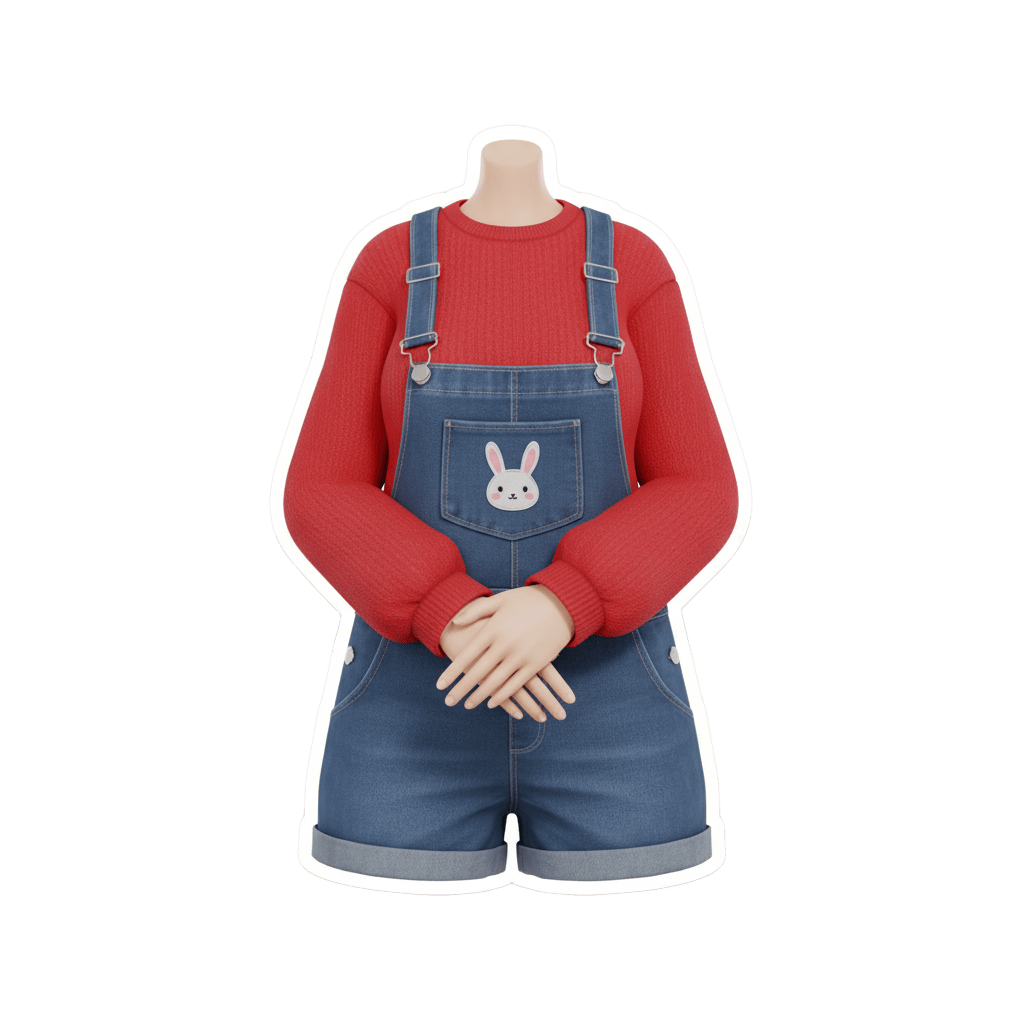
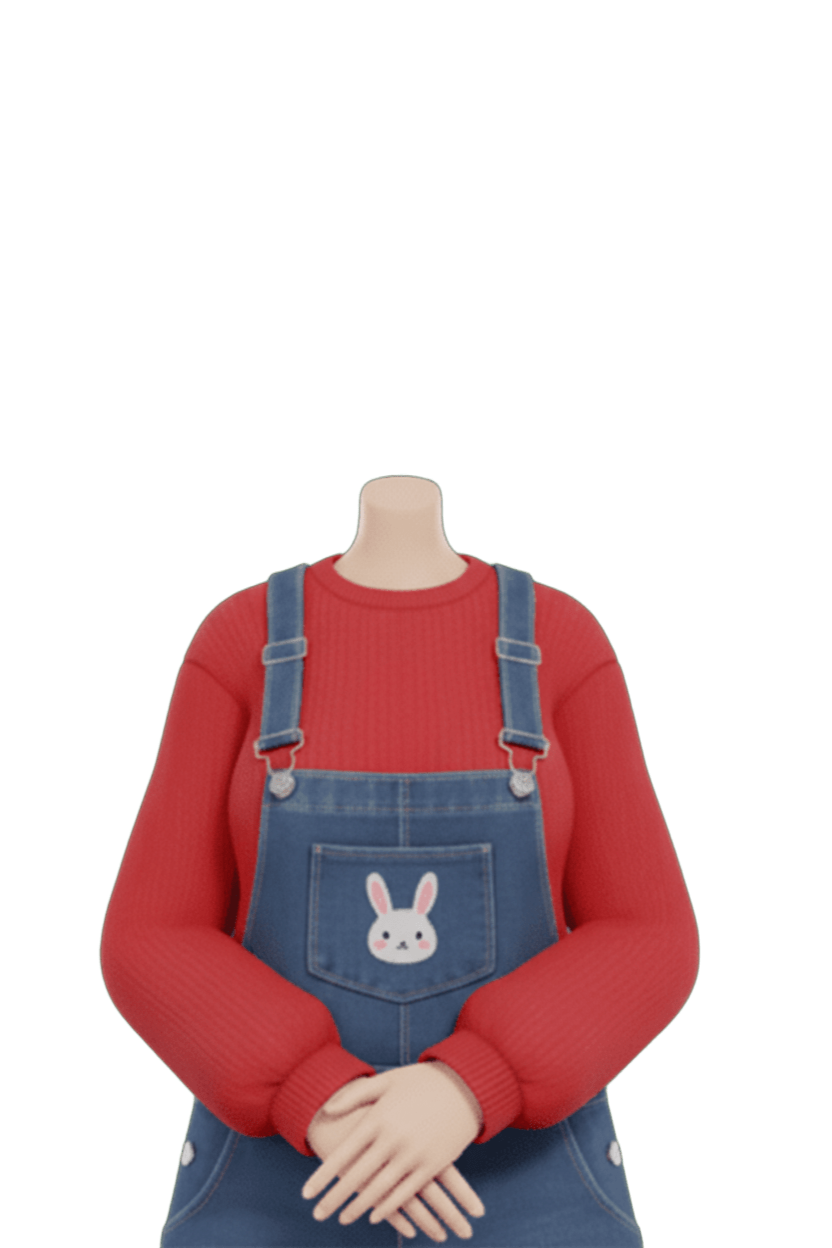
update progress: memperbaiki presisi animasi

diff --git a/tracking.py b/tracking.py
@@ -1,15 +1,11 @@
 import cv2
 import mediapipe as mp
 import numpy as np
-from collections import deque # <-- BARU: Import library deque
+from collections import deque
+import math
 
 # --- FUNGSI UNTUK MENEMPELKAN GAMBAR PNG (DENGAN TRANSPARANSI) ---
-# Fungsi ini sudah bagus, tidak perlu diubah.
 def overlay_png(background, overlay, x, y):
-    """
-    Menempelkan gambar 'overlay' (dengan alpha channel) ke 'background'.
-    x, y adalah koordinat pojok kiri atas dari gambar overlay.
-    """
     bg_h, bg_w, _ = background.shape
     overlay_h, overlay_w, _ = overlay.shape
 
@@ -41,123 +37,214 @@ def overlay_png(background, overlay, x, y):
 
 # --- INISIALISASI MEDIAPIPE ---
 mp_holistic = mp.solutions.holistic
+mp_hands = mp.solutions.hands
 
 # --- MUAT SEMUA GAMBAR KARAKTER DAN SKALAKAN ---
 try:
+    # Aset Kepala (3)
     img_head_normal = cv2.imread('margo_head_normal.png', cv2.IMREAD_UNCHANGED)
+    img_head_blush = cv2.imread('margo_head_blush.png', cv2.IMREAD_UNCHANGED)
+    img_head_excited = cv2.imread('margo_head_excited.png', cv2.IMREAD_UNCHANGED) 
+    
+    # Aset Badan (7)
     img_body_normal = cv2.imread('margo_body_normal.png', cv2.IMREAD_UNCHANGED)
-    img_head_react = cv2.imread('margo_head_react.png', cv2.IMREAD_UNCHANGED)
-    img_body_react = cv2.imread('margo_body_react.png', cv2.IMREAD_UNCHANGED)
+    img_body_coverface = cv2.imread('margo_body_coverface.png', cv2.IMREAD_UNCHANGED)
+    img_body_peace = cv2.imread('margo_body_peace.png', cv2.IMREAD_UNCHANGED)
+    img_body_ok = cv2.imread('margo_body_ok.png', cv2.IMREAD_UNCHANGED)
+    img_body_wave = cv2.imread('margo_body_wave.png', cv2.IMREAD_UNCHANGED)
+    img_body_excited = cv2.imread('margo_body_excited.png', cv2.IMREAD_UNCHANGED)
+    img_body_thumbsup = cv2.imread('margo_body_thumbsup.png', cv2.IMREAD_UNCHANGED)
     
-    if any(img is None for img in [img_head_normal, img_body_normal, img_head_react, img_body_react]):
-        raise FileNotFoundError("Salah satu atau lebih file gambar tidak ditemukan.")
+    image_assets = [
+        img_head_normal, img_head_blush, img_head_excited, img_body_normal, img_body_coverface,
+        img_body_peace, img_body_ok, img_body_wave, img_body_excited, img_body_thumbsup
+    ]
+    if any(img is None for img in image_assets):
+        raise FileNotFoundError("Salah satu atau lebih file gambar tidak ditemukan! Cek kembali semua 10 nama file.")
     
-    # --- PENTING: FAKTOR SKALA ---
-    scale_factor_head = 0.45
-    scale_factor_body = 0.7 
+    scale_factor_head = 0.4
+    scale_factor_body = 0.5 
 
-    img_head_normal = cv2.resize(img_head_normal, (0,0), fx=scale_factor_head, fy=scale_factor_head, interpolation=cv2.INTER_AREA)
-    img_body_normal = cv2.resize(img_body_normal, (0,0), fx=scale_factor_body, fy=scale_factor_body, interpolation=cv2.INTER_AREA)
-    img_head_react = cv2.resize(img_head_react, (0,0), fx=scale_factor_head, fy=scale_factor_head, interpolation=cv2.INTER_AREA)
-    img_body_react = cv2.resize(img_body_react, (0,0), fx=scale_factor_body, fy=scale_factor_body, interpolation=cv2.INTER_AREA)
+    img_head_normal = cv2.resize(img_head_normal, (0,0), fx=scale_factor_head, fy=scale_factor_head)
+    img_head_blush = cv2.resize(img_head_blush, (0,0), fx=scale_factor_head, fy=scale_factor_head)
+    img_head_excited = cv2.resize(img_head_excited, (0,0), fx=scale_factor_head, fy=scale_factor_head)
+    img_body_normal = cv2.resize(img_body_normal, (0,0), fx=scale_factor_body, fy=scale_factor_body)
+    img_body_coverface = cv2.resize(img_body_coverface, (0,0), fx=scale_factor_body, fy=scale_factor_body)
+    img_body_peace = cv2.resize(img_body_peace, (0,0), fx=scale_factor_body, fy=scale_factor_body)
+    img_body_ok = cv2.resize(img_body_ok, (0,0), fx=scale_factor_body, fy=scale_factor_body)
+    img_body_wave = cv2.resize(img_body_wave, (0,0), fx=scale_factor_body, fy=scale_factor_body)
+    img_body_excited = cv2.resize(img_body_excited, (0,0), fx=scale_factor_body, fy=scale_factor_body)
+    img_body_thumbsup = cv2.resize(img_body_thumbsup, (0,0), fx=scale_factor_body, fy=scale_factor_body)
 
 except FileNotFoundError as e:
-    print(e)
-    print("Pastikan semua file gambar ('margo_head_normal.png', 'margo_body_normal.png', dll) ada di folder yang sama dengan script Python.")
+    print(f"Error: {e}")
     exit()
 
-# --- BUKA KAMERA & INISIALISASI MODEL HOLISTIC ---
-cap = cv2.VideoCapture(0)
+### BARU: PENGATURAN POSISI GLOBAL ###
+# Atur jarak kepala dan badan di sini. Ini akan berlaku untuk SEMUA gestur.
+# Format: (penyesuaian_x, penyesuaian_y)
+GLOBAL_OFFSET_HEAD = (0, 140)  # Geser kepala ke atas 20 piksel
+GLOBAL_OFFSET_BODY = (0, -20)  # Geser badan ke bawah 190 piksel
 
-# <-- BARU: BUAT PENYIMPANAN HISTORY UNTUK SMOOTHING -->
-# maxlen=5 berarti kita akan menyimpan & merata-ratakan 5 posisi terakhir
+
+# --- KONFIGURASI UNTUK SETIAP GESTUR ---
+# Sekarang hanya berisi aset gambar untuk setiap gestur.
+GESTURE_CONFIG = {
+    "NORMAL": {
+        "head": img_head_normal,
+        "body": img_body_normal
+        ### DIHAPUS: "offset_head" dan "offset_body"
+    },
+    "BLUSHING": {
+        "head": img_head_blush,
+        "body": img_body_coverface
+    },
+    "EXCITED": {
+        "head": img_head_excited,
+        "body": img_body_excited
+    },
+    "THUMBS_UP": {
+        "head": img_head_normal,
+        "body": img_body_thumbsup
+    },
+    "PEACE": {
+        "head": img_head_normal,
+        "body": img_body_peace
+    },
+    "OK": {
+        "head": img_head_normal,
+        "body": img_body_ok
+    },
+    "WAVE": {
+        "head": img_head_normal,
+        "body": img_body_wave
+    }
+}
+
+# --- FUNGSI BANTUAN DETEKSI GESTURE ---
+def get_finger_status(hand_landmarks):
+    status = {'THUMB': False, 'INDEX': False, 'MIDDLE': False, 'RING': False, 'PINKY': False}
+    if not hand_landmarks:
+        return status
+        
+    thumb_tip = hand_landmarks.landmark[mp_hands.HandLandmark.THUMB_TIP]
+    thumb_ip = hand_landmarks.landmark[mp_hands.HandLandmark.THUMB_IP]
+    if thumb_tip.y < thumb_ip.y:
+        status['THUMB'] = True
+
+    finger_tips_ids = [mp_hands.HandLandmark.INDEX_FINGER_TIP, mp_hands.HandLandmark.MIDDLE_FINGER_TIP, 
+                       mp_hands.HandLandmark.RING_FINGER_TIP, mp_hands.HandLandmark.PINKY_TIP]
+    finger_pips_ids = [mp_hands.HandLandmark.INDEX_FINGER_PIP, mp_hands.HandLandmark.MIDDLE_FINGER_PIP, 
+                       mp_hands.HandLandmark.RING_FINGER_PIP, mp_hands.HandLandmark.PINKY_PIP]
+
+    for i, (tip_id, pip_id) in enumerate(zip(finger_tips_ids, finger_pips_ids)):
+        finger_name = list(status.keys())[i+1]
+        if hand_landmarks.landmark[tip_id].y < hand_landmarks.landmark[pip_id].y:
+            status[finger_name] = True
+    return status
+
+def is_fist(hand_landmarks):
+    if not hand_landmarks:
+        return False
+    finger_status = get_finger_status(hand_landmarks)
+    is_clenched = not any(finger_status.values())
+    return is_clenched
+
+# --- BUKA KAMERA & INISIALISASI ---
+cap = cv2.VideoCapture(0)
 history_head = deque(maxlen=5)
 history_body = deque(maxlen=5)
 
-with mp_holistic.Holistic(
-    min_detection_confidence=0.7,
-    min_tracking_confidence=0.7
-) as holistic:
-
+with mp_holistic.Holistic(min_detection_confidence=0.5, min_tracking_confidence=0.5) as holistic:
     while cap.isOpened():
         ret, frame = cap.read()
-        if not ret:
-            break
+        if not ret: break
 
         frame = cv2.flip(frame, 1)
         frame_h, frame_w, _ = frame.shape
-
         image_rgb = cv2.cvtColor(frame, cv2.COLOR_BGR2RGB)
         results = holistic.process(image_rgb)
         
-        # --- LOGIKA UTAMA ---
+        current_gesture = "NORMAL"
+
         if results.pose_landmarks:
             pose = results.pose_landmarks.landmark
             
-            # 1. Tentukan status (Normal atau Bereaksi)
-            left_wrist = pose[mp_holistic.PoseLandmark.LEFT_WRIST]
-            right_wrist = pose[mp_holistic.PoseLandmark.RIGHT_WRIST]
-            nose = pose[mp_holistic.PoseLandmark.NOSE]
-            is_reacting = left_wrist.y < nose.y and right_wrist.y < nose.y
-
-            # 2. Pilih aset gambar yang sesuai dengan status
-            if is_reacting:
-                current_head_img = img_head_react
-                current_body_img = img_body_react
-            else:
-                current_head_img = img_head_normal
-                current_body_img = img_body_normal
+            if results.left_hand_landmarks and results.right_hand_landmarks:
+                left_wrist = pose[mp_holistic.PoseLandmark.LEFT_WRIST]
+                right_wrist = pose[mp_holistic.PoseLandmark.RIGHT_WRIST]
+                nose = pose[mp_holistic.PoseLandmark.NOSE]
                 
-            current_head_h, current_head_w, _ = current_head_img.shape
-            current_body_h, current_body_w, _ = current_body_img.shape
+                if left_wrist.y < nose.y and right_wrist.y < nose.y:
+                    if abs(left_wrist.x - right_wrist.x) < 0.3:
+                        current_gesture = "BLUSHING"
 
-            # --------------------------------------------------------------------
-            # ## PERHITUNGAN POSISI YANG SUDAH DIHALUSKAN (SMOOTHED) ##
-            
-            # 3.1 Dapatkan posisi mentah (RAW) dari landmark
-            raw_pos_head = (int(nose.x * frame_w), int(nose.y * frame_h))
+            if current_gesture == "NORMAL":
+                if is_fist(results.left_hand_landmarks) and is_fist(results.right_hand_landmarks):
+                    current_gesture = "EXCITED"
 
+            if current_gesture == "NORMAL":
+                is_waving = (results.right_hand_landmarks and pose[mp_holistic.PoseLandmark.RIGHT_WRIST].y < pose[mp_holistic.PoseLandmark.RIGHT_SHOULDER].y) or \
+                            (results.left_hand_landmarks and pose[mp_holistic.PoseLandmark.LEFT_WRIST].y < pose[mp_holistic.PoseLandmark.LEFT_SHOULDER].y)
+                
+                if is_waving:
+                    current_gesture = "WAVE"
+                
+                elif results.right_hand_landmarks:
+                    hand_landmarks = results.right_hand_landmarks
+                    finger_status = get_finger_status(hand_landmarks)
+                    
+                    if finger_status['THUMB'] and not finger_status['INDEX'] and not finger_status['MIDDLE']:
+                        current_gesture = "THUMBS_UP"
+                    elif finger_status['INDEX'] and finger_status['MIDDLE'] and not finger_status['RING']:
+                        current_gesture = "PEACE"
+                    elif math.hypot(hand_landmarks.landmark[mp_hands.HandLandmark.INDEX_FINGER_TIP].x - hand_landmarks.landmark[mp_hands.HandLandmark.THUMB_TIP].x, hand_landmarks.landmark[mp_hands.HandLandmark.INDEX_FINGER_TIP].y - hand_landmarks.landmark[mp_hands.HandLandmark.THUMB_TIP].y) < 0.07:
+                        current_gesture = "OK"
+
+        # --- AMBIL KONFIGURASI & GAMBAR KARAKTER ---
+        config = GESTURE_CONFIG.get(current_gesture, GESTURE_CONFIG["NORMAL"])
+        current_head_img = config["head"]
+        current_body_img = config["body"]
+        
+        ### DIUBAH: Gunakan variabel global ###
+        offset_head_x, offset_head_y = GLOBAL_OFFSET_HEAD
+        offset_body_x, offset_body_y = GLOBAL_OFFSET_BODY
+
+        # --- LOGIKA PENGGAMBARAN KARAKTER ---
+        if results.pose_landmarks:
+            pose = results.pose_landmarks.landmark
+            nose = pose[mp_holistic.PoseLandmark.NOSE]
             left_shoulder = pose[mp_holistic.PoseLandmark.LEFT_SHOULDER]
             right_shoulder = pose[mp_holistic.PoseLandmark.RIGHT_SHOULDER]
-            raw_pos_body = (
-                int((left_shoulder.x + right_shoulder.x) * frame_w / 2),
-                int((left_shoulder.y + right_shoulder.y) * frame_h / 2)
-            )
 
-            # 3.2 Simpan posisi mentah ke dalam history
+            raw_pos_head = (int(nose.x * frame_w), int(nose.y * frame_h))
+            raw_pos_body = (int((left_shoulder.x + right_shoulder.x) * frame_w / 2), int((left_shoulder.y + right_shoulder.y) * frame_h / 2))
+            
             history_head.append(raw_pos_head)
             history_body.append(raw_pos_body)
-
-            # 3.3 Hitung posisi RATA-RATA dari history
+            
             avg_x_head = sum(p[0] for p in history_head) // len(history_head)
             avg_y_head = sum(p[1] for p in history_head) // len(history_head)
             avg_x_body = sum(p[0] for p in history_body) // len(history_body)
             avg_y_body = sum(p[1] for p in history_body) // len(history_body)
 
-            # 3.4 Gunakan posisi RATA-RATA ini untuk menggambar
-            cx_head, cy_head = avg_x_head, avg_y_head
-            cx_shoulder_mid, cy_shoulder_mid = avg_x_body, avg_y_body
-            # --------------------------------------------------------------------
+            current_body_h, current_body_w, _ = current_body_img.shape
+            pos_x_body = avg_x_body - (current_body_w // 2) + offset_body_x
+            pos_y_body = avg_y_body - (current_body_h // 2) + offset_body_y
             
-            # ======== SESUAIKAN OFFSET INI UNTUK POSISI YANG PAS ========
-            offset_y_body = 180  # Geser badan ke atas/bawah
-            offset_y_head = -10  # Geser kepala ke atas/bawah agar pas dengan leher
-            # ==========================================================
-            
-            pos_x_body = cx_shoulder_mid - (current_body_w // 2)
-            pos_y_body = cy_shoulder_mid - (current_body_h // 2) + offset_y_body
+            current_head_h, current_head_w, _ = current_head_img.shape
+            pos_x_head = avg_x_head - (current_head_w // 2) + offset_head_x
+            pos_y_head = avg_y_head - (current_head_h // 2) + offset_head_y
 
-            pos_x_head = cx_head - (current_head_w // 2)
-            pos_y_head = cy_head - (current_head_h // 2) + offset_y_head
+            if current_gesture == "BLUSHING":
+                frame = overlay_png(frame, current_head_img, pos_x_head, pos_y_head)
+                frame = overlay_png(frame, current_body_img, pos_x_body, pos_y_body)
+            else:
+                frame = overlay_png(frame, current_body_img, pos_x_body, pos_y_body)
+                frame = overlay_png(frame, current_head_img, pos_x_head, pos_y_head)
 
-            # 4. Gambar Karakter ke Layar
-            frame = overlay_png(frame, current_body_img, pos_x_body, pos_y_body)
-            frame = overlay_png(frame, current_head_img, pos_x_head, pos_y_head)
-            
-        cv2.imshow('VTuber Margo Lengkap', frame)
-
-        if cv2.waitKey(5) & 0xFF in [ord('q'), 27]: # Keluar dengan 'q' atau 'ESC'
-            break
+        cv2.imshow('VTuber Margo Interaktif', frame)
+        if cv2.waitKey(5) & 0xFF in [ord('q'), 27]: break
 
 cap.release()
 cv2.destroyAllWindows()
